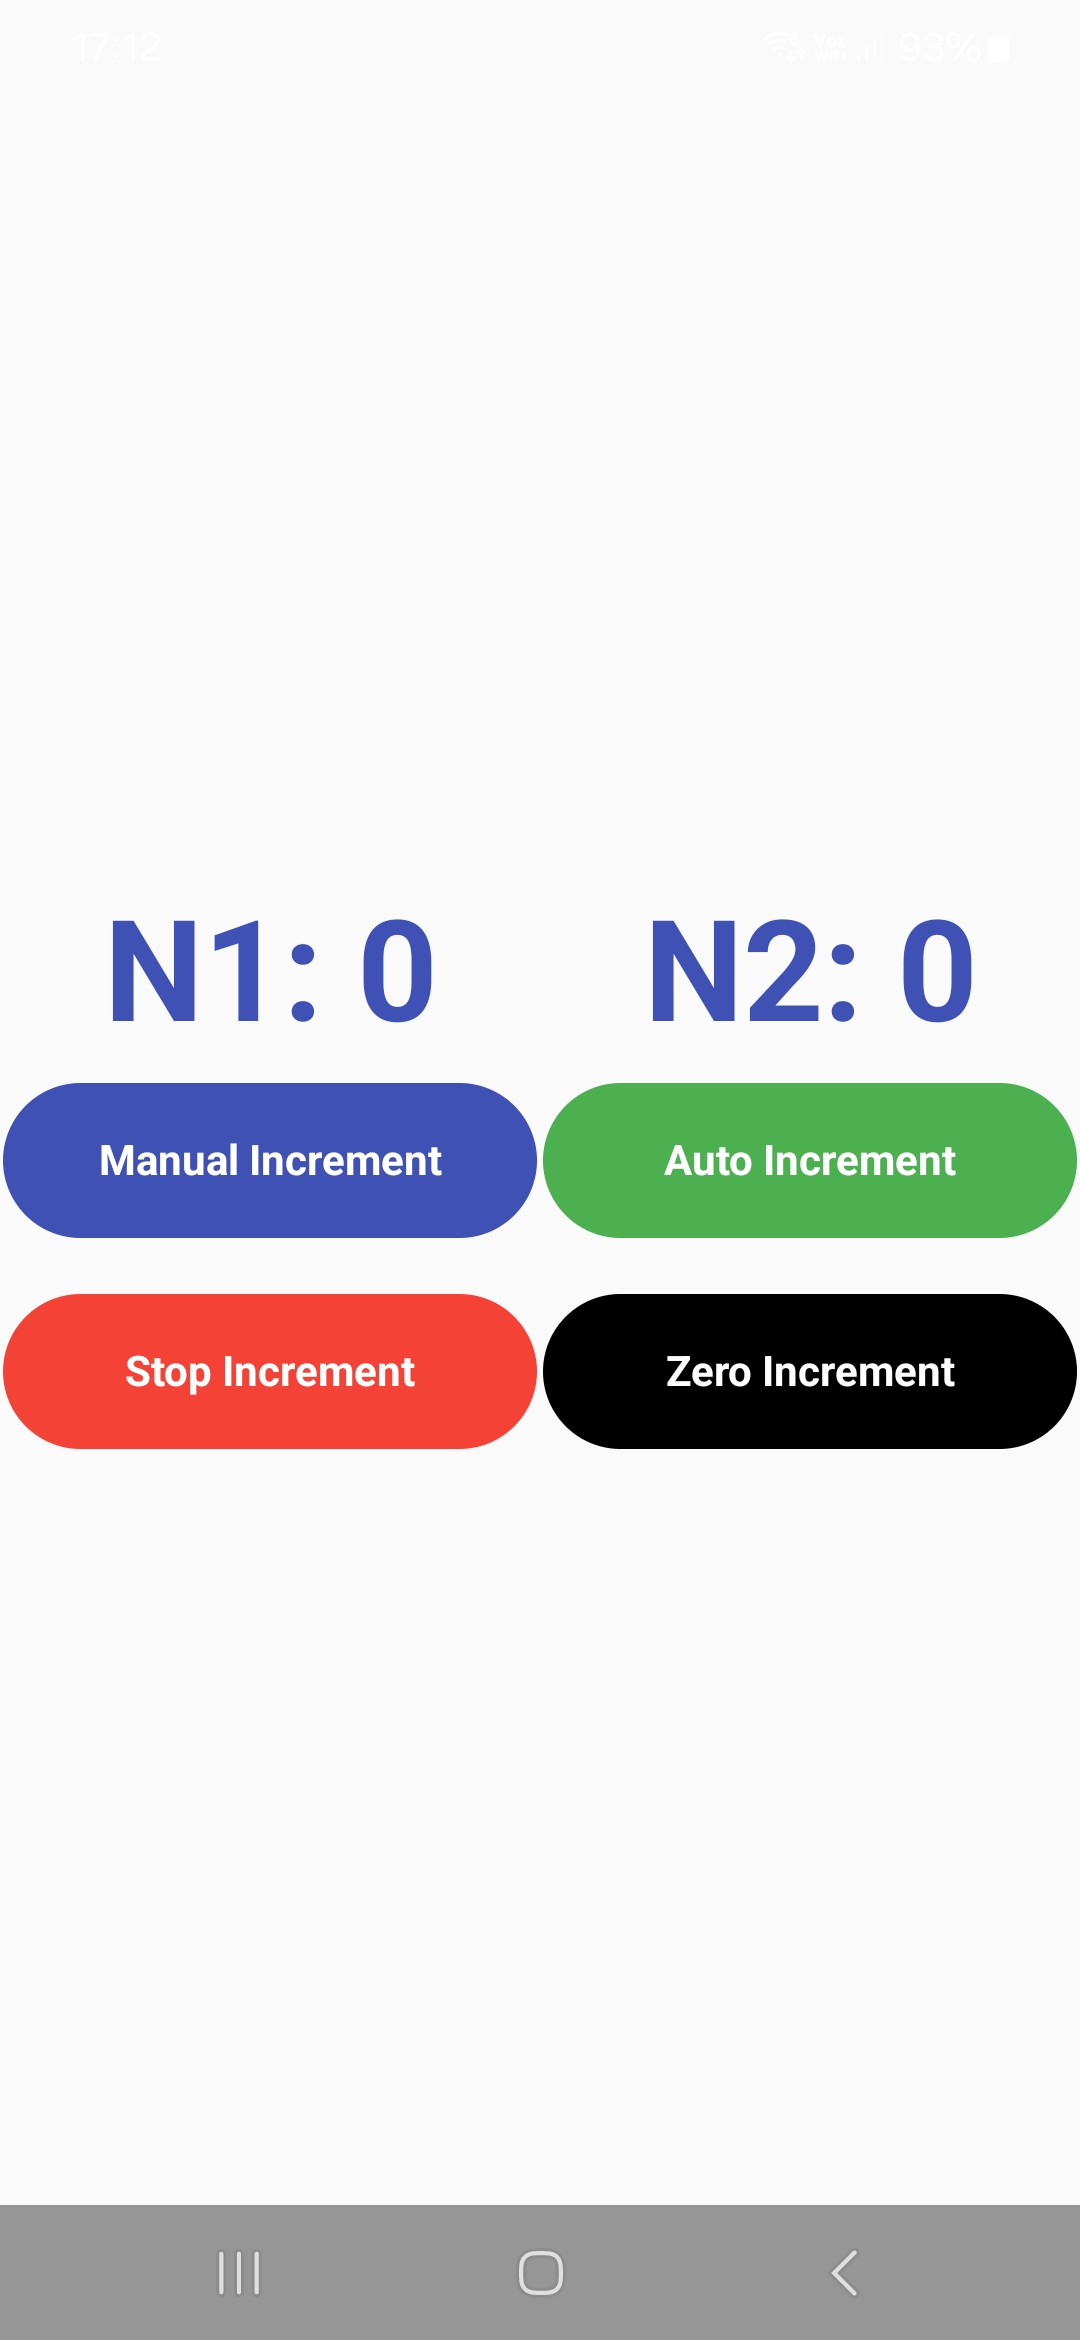
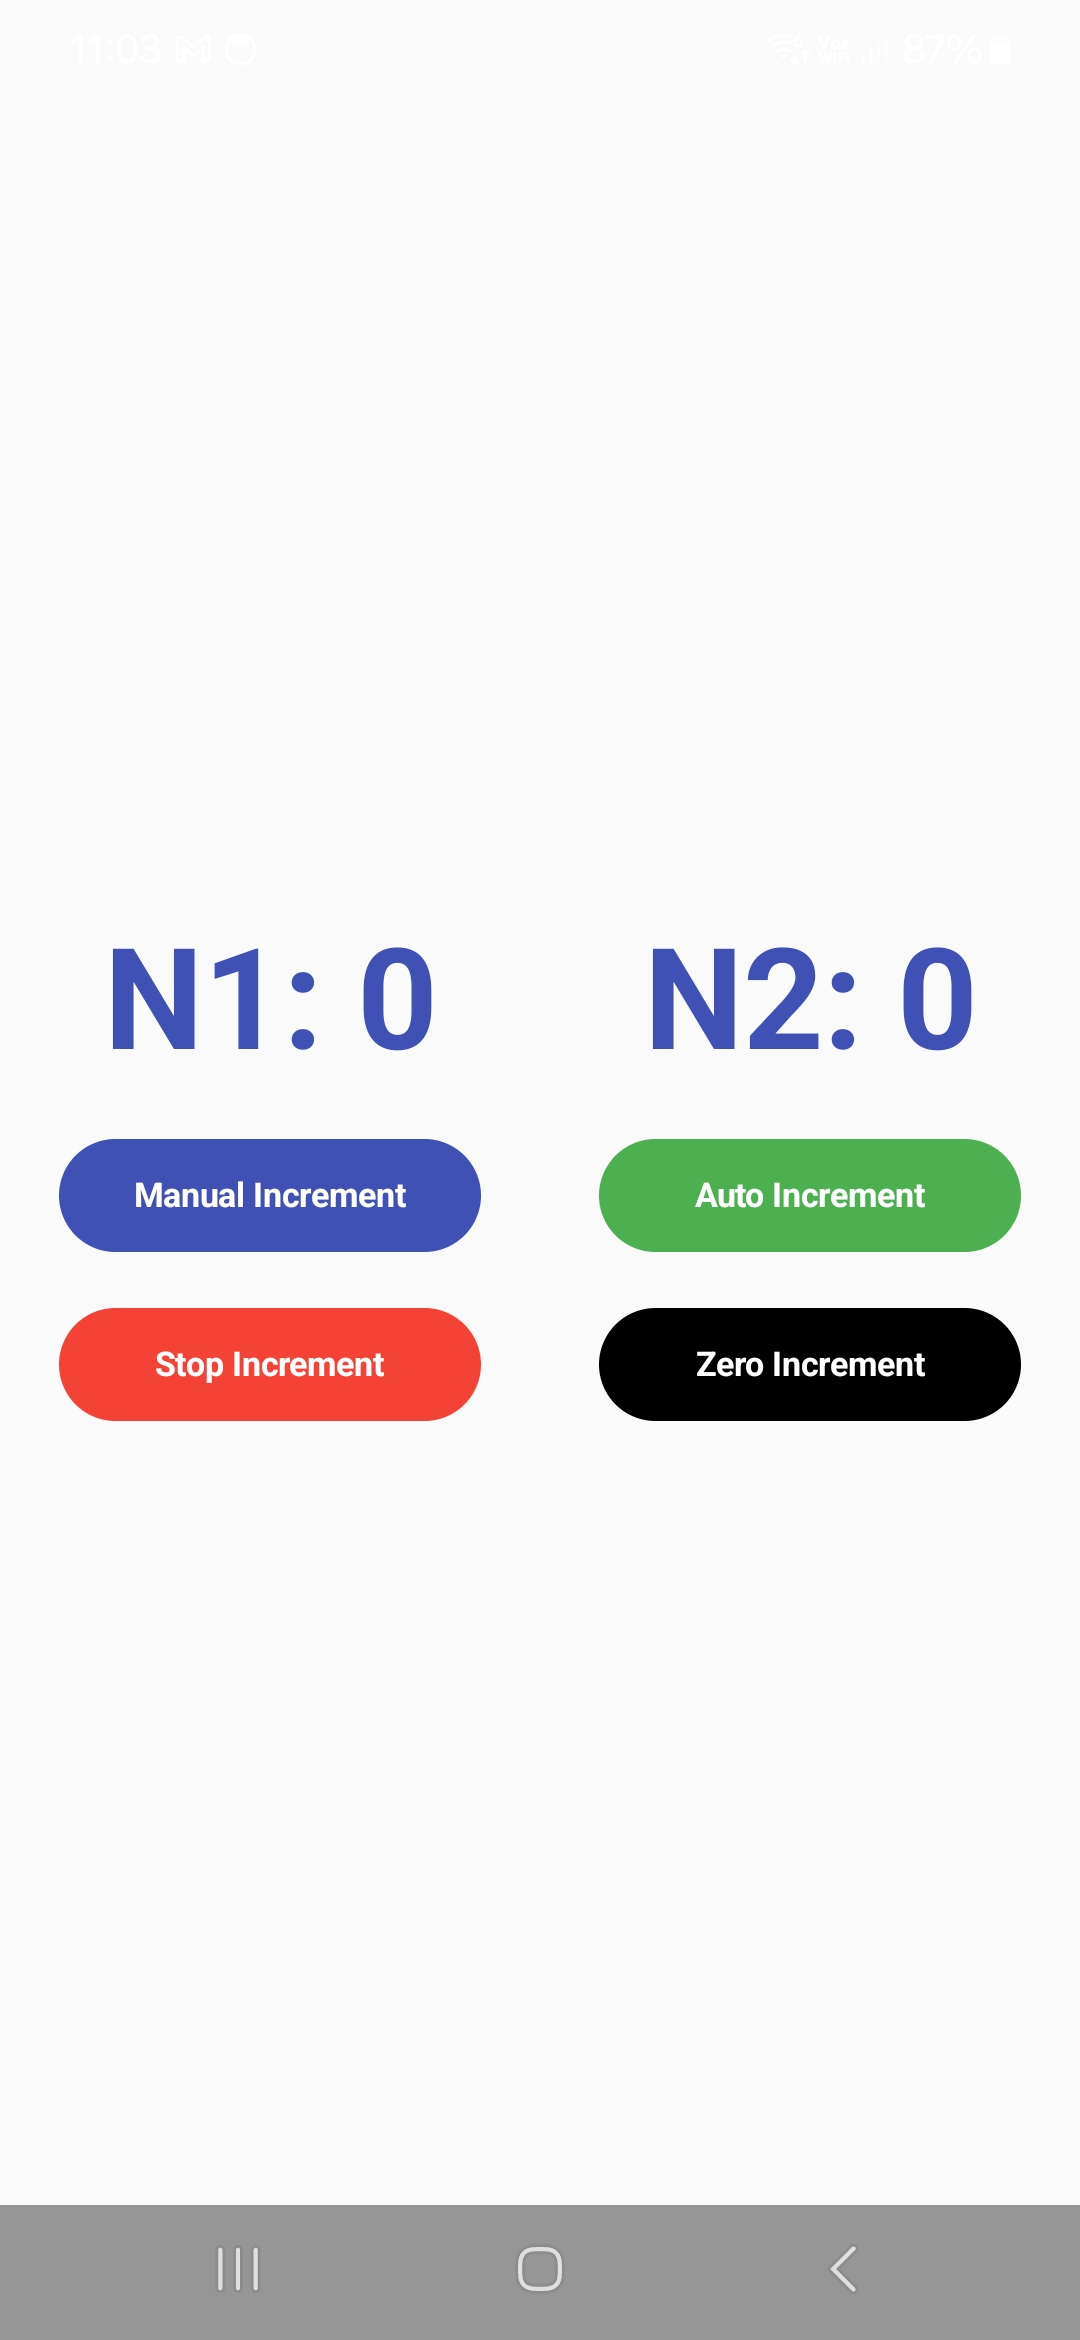
Tamanho dos botões alterado - [Evitar bugs em telas com densidade de pixels diferentes]

Changed region(s): [[0.0, 0.3744, 1.0, 0.6239], [0.4889, 0.9359, 0.5194, 0.9983], [0.7639, 0.9671, 0.7944, 0.9983]]

diff --git a/app/src/main/java/com/newoverride/incrementador/dimens/Dimens.kt b/app/src/main/java/com/newoverride/incrementador/dimens/Dimens.kt
@@ -5,9 +5,9 @@ import androidx.compose.ui.unit.sp
 
 object Dimens {
     val displayTextSize = 50.sp
-    val spacerDisplayButton = 10.dp
-    val buttonTextSize = 15.sp
-    val heightButton = 55.dp
-    val widthButton = 190.dp
+    val spacerDisplayButton = 20.dp
+    val buttonTextSize = 12.sp
+    val heightButton = 40.dp
+    val widthButton = 150.dp
     val spacerButtonStopZero = 20.dp
 }
